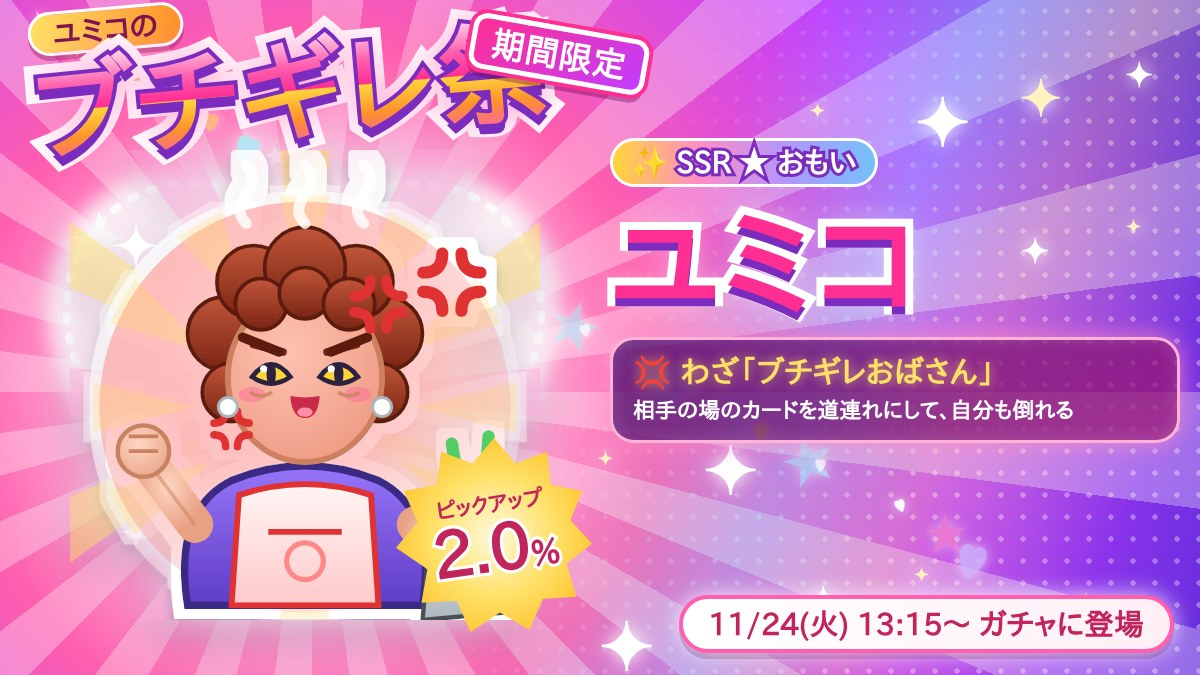
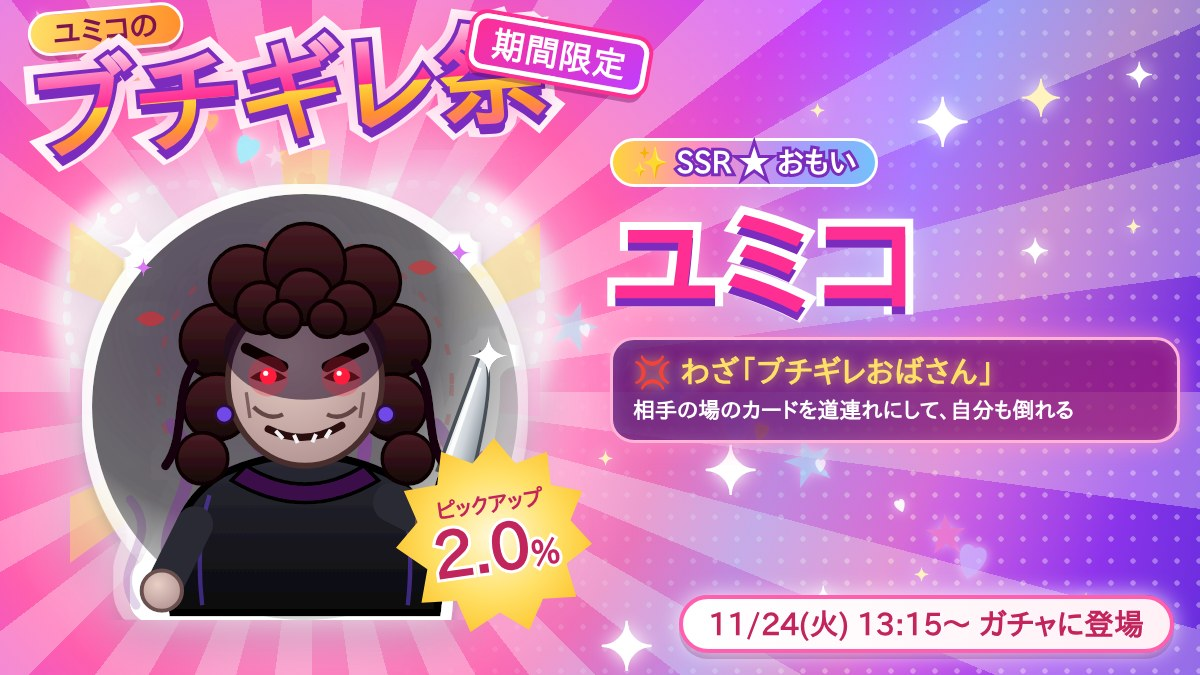
ぶんバト: ユミコの絵を闇堕ちして包丁を持った姿に (ドパバナーも作り直し)
Claude-Session: https://claude.ai/code/session_0131LAB3VBSEDYy6z21kYLHB

Changed region(s): [[0.0617, 0.2178, 0.4625, 0.9333]]

diff --git a/public/cards-art.js b/public/cards-art.js
@@ -365,33 +365,45 @@
         ${twinkle(104, 60, 7, '#fff')}${twinkle(12, 40, 5, '#c3fae8')}${twinkle(36, 112, 4, '#fff')}</g>`;
       },
       // 中大兄皇子 (MR・おもい・大化の改新): 硯 (すずり) の皇子。黒い冠 (纓が立つ)、笏 (しゃく) を持ち、「大化」の巻物。体は石の硯で、墨の池がある
-      // ユミコ (SSR・おもい・ブチギレおばさん): ブチギレると止まらないおばさん。赤茶のパーマ・エプロン・腕まくり・怒りマーク 💢・頭から湯気・買い物袋 (ネギ)
+      // ユミコ (SSR・おもい・ブチギレおばさん): 闇堕ちしたユミコ。黒と紫のオーラ・乱れたパーマ・影の落ちた顔に赤く光る目・黒い服・包丁 (刃が光る)
       yumiko: () => {
-        const skin = rg('sk', [[0, '#ffd6c2'], [1, '#e8a183']], 0.4, 0.35, 0.8), apron = lg('ap', [[0, '#fff5f5'], [1, '#ffc9c9']]);
-        const curl = (x, y, r) => `<circle cx="${x}" cy="${y}" r="${r}" fill="${lg('hr' + x + '_' + y, [[0, '#c0563a'], [1, '#7a2414']])}" stroke="#5c1a0d" stroke-width="1"/>`;
-        const vein = (x, y, k) => `<g transform="translate(${x} ${y}) scale(${k})"><path d="M-6,-2 Q-2,-2 -2,-6 M2,-6 Q2,-2 6,-2 M6,2 Q2,2 2,6 M-2,6 Q-2,2 -6,2" stroke="#e03131" stroke-width="2.6" fill="none" stroke-linecap="round"/></g>`;
-        const steam = (x) => `<path d="M${x},14 C${x - 6},8 ${x + 6},4 ${x},-2" stroke="#fff" stroke-width="3" fill="none" stroke-linecap="round" opacity=".85"/>`;
+        const skin = rg('sk', [[0, '#e9cfc6'], [1, '#a98a8a']], 0.4, 0.35, 0.8);
+        const curl = (x, y, r) => `<circle cx="${x}" cy="${y}" r="${r}" fill="${lg('hr' + x + '_' + y, [[0, '#4a1d24'], [1, '#160509']])}" stroke="#0b0205" stroke-width="1"/>`;
+        const wisp = (x, y, k, o) => `<path d="M${x},${y} C${x - 10 * k},${y - 14 * k} ${x + 10 * k},${y - 22 * k} ${x - 2 * k},${y - 36 * k}" stroke="#9c36b5" stroke-width="${3 * k}" fill="none" stroke-linecap="round" opacity="${o}"/>`;
         return `
-        <circle cx="60" cy="64" r="56" fill="${rg('aura', [[0, '#ffc9c9', 0.95], [0.55, '#ff6b6b', 0.45], [1, '#e03131', 0]])}"/>
-        ${Array.from({ length: 12 }, (_, i) => { const a = i * Math.PI / 6; return `<path d="M${(60 + Math.cos(a) * 30).toFixed(1)},${(64 + Math.sin(a) * 30).toFixed(1)} L${(60 + Math.cos(a + 0.12) * 58).toFixed(1)},${(64 + Math.sin(a + 0.12) * 58).toFixed(1)} L${(60 + Math.cos(a - 0.12) * 58).toFixed(1)},${(64 + Math.sin(a - 0.12) * 58).toFixed(1)}Z" fill="#ffe066" opacity=".35"/>`; }).join('')}
-        <path d="M28,118 Q24,92 40,84 Q60,76 80,84 Q96,92 92,118Z" fill="${lg('sw', [[0, '#9775fa'], [1, '#5f3dc4']])}" stroke="#3b2a85" stroke-width="2"/>
-        <path d="M42,88 Q60,82 78,88 L80,118 L40,118Z" fill="${apron}" stroke="#e03131" stroke-width="1.6"/>
-        <path d="M50,98 H70" stroke="#e03131" stroke-width="1.6"/><circle cx="60" cy="106" r="5" fill="none" stroke="#ff8787" stroke-width="1.4"/>
-        <path d="M30,96 L18,80" stroke="${skin}" stroke-width="10" stroke-linecap="round"/><path d="M30,96 L18,80" stroke="#c9825f" stroke-width="1" fill="none" opacity=".5"/>
-        <circle cx="16" cy="76" r="7" fill="${skin}" stroke="#c9825f" stroke-width="1.2"/><path d="M12,72 L20,72 M12,76 L20,76" stroke="#c9825f" stroke-width="1"/>
-        <path d="M90,96 L100,108" stroke="${skin}" stroke-width="10" stroke-linecap="round"/>
-        <path d="M94,100 L110,98 L114,120 L92,122Z" fill="${lg('bag', [[0, '#e9ecef'], [1, '#adb5bd']])}" stroke="#495057" stroke-width="1.2"/>
-        <path d="M104,98 L100,74 M108,98 L110,72" stroke="#51cf66" stroke-width="3.4" stroke-linecap="round"/><path d="M102,104 L106,98" stroke="#f8f9fa" stroke-width="5"/>
-        ${curl(38, 44, 10)}${curl(82, 44, 10)}${curl(40, 60, 8)}${curl(80, 60, 8)}${curl(46, 30, 10)}${curl(74, 30, 10)}${curl(60, 26, 11)}
-        <ellipse cx="60" cy="56" rx="21" ry="23" fill="${skin}" stroke="#c9825f" stroke-width="1.6"/>
-        <ellipse cx="60" cy="56" rx="21" ry="23" fill="#ff6b6b" opacity=".18"/>
-        ${curl(48, 36, 7)}${curl(60, 33, 7)}${curl(72, 36, 7)}
-        ${face(60, 55, { eyes: 'fierce', mouth: 'open', s: 0.8, brows: true, iris: '#7a2414' })}
-        <path d="M43,45 L53,49 M77,45 L67,49" stroke="#5c1a0d" stroke-width="2.6" stroke-linecap="round"/>
-        <path d="M45,60 Q48,62 51,60 M69,60 Q72,62 75,60" stroke="#c9825f" stroke-width="1" fill="none" opacity=".8"/>
-        ${vein(80, 36, 1.1)}${vein(40, 70, 0.8)}${vein(100, 30, 1.3)}
-        ${steam(44)}${steam(60)}${steam(76)}
-        <circle cx="39" cy="64" r="2.6" fill="#fff" stroke="#adb5bd" stroke-width=".8"/><circle cx="81" cy="64" r="2.6" fill="#fff" stroke="#adb5bd" stroke-width=".8"/>`;
+        <circle cx="60" cy="64" r="58" fill="${rg('aura', [[0, '#3b0d4a', 0.95], [0.55, '#1a0624', 0.85], [1, '#000', 0]])}"/>
+        ${Array.from({ length: 9 }, (_, i) => wisp(14 + i * 12, 118 - (i % 3) * 6, 0.8 + (i % 2) * 0.4, 0.35 + (i % 3) * 0.15)).join('')}
+        <circle cx="60" cy="58" r="40" fill="none" stroke="#e03131" stroke-width="1.2" opacity=".35" stroke-dasharray="3 5"/>
+        <path d="M24,120 Q20,92 38,82 Q60,72 82,82 Q100,92 96,120Z" fill="${lg('cl', [[0, '#2b2b36'], [1, '#08080c']])}" stroke="#000" stroke-width="2"/>
+        <path d="M40,84 Q60,96 80,84 L76,80 Q60,90 44,80Z" fill="#3b0d4a" stroke="#000" stroke-width="1"/>
+        <path d="M34,88 Q30,100 32,118 M86,88 Q90,100 88,118" stroke="#5f3dc4" stroke-width="1.2" fill="none" opacity=".6"/>
+        <path d="M84,90 L96,96" stroke="#2b2b36" stroke-width="11" stroke-linecap="round"/>
+        <g transform="translate(97 96) rotate(-74)">
+          <rect x="-3" y="-4" width="17" height="8" rx="2.5" fill="${lg('hd', [[0, '#3d2b1f'], [1, '#1a110b']])}" stroke="#000" stroke-width="1"/>
+          <circle cx="2" cy="0" r="1.2" fill="#adb5bd"/><circle cx="9" cy="0" r="1.2" fill="#adb5bd"/>
+          <path d="M14,-5 L48,-2.5 Q46,3.6 14,4.6Z" fill="${lg('bl', [[0, '#f8f9fa'], [0.5, '#ced4da'], [1, '#868e96']], 0, 1)}" stroke="#495057" stroke-width="1"/>
+          <path d="M16,-3 L44,-1.6" stroke="#fff" stroke-width="1.2" opacity=".9"/>
+        </g>
+        ${twinkle(110, 50, 6, '#fff')}
+        <circle cx="97" cy="96" r="6.5" fill="${skin}" stroke="#6b4f4f" stroke-width="1.2"/><path d="M93,93 L101,93 M93,96.5 L101,96.5" stroke="#6b4f4f" stroke-width=".9"/>
+        <path d="M30,96 L22,112" stroke="#2b2b36" stroke-width="10" stroke-linecap="round"/><circle cx="21" cy="114" r="5.5" fill="${skin}" stroke="#6b4f4f" stroke-width="1.1"/>
+        ${curl(36, 46, 10)}${curl(84, 46, 10)}${curl(36, 64, 9)}${curl(84, 64, 9)}${curl(44, 30, 10)}${curl(76, 30, 10)}${curl(60, 25, 11)}${curl(32, 78, 7)}${curl(88, 78, 7)}
+        <path d="M30,52 C24,60 28,72 22,80 M90,52 C96,60 92,72 98,80" stroke="#160509" stroke-width="2.4" fill="none" stroke-linecap="round"/>
+        <ellipse cx="60" cy="57" rx="21" ry="23" fill="${skin}" stroke="#4a2d2d" stroke-width="1.6"/>
+        <ellipse cx="60" cy="48" rx="22" ry="14" fill="#1a0624" opacity=".55"/>
+        <path d="M46,64 Q50,68 54,66 M66,66 Q70,68 74,64" stroke="#4a2d2d" stroke-width="1.2" fill="none" opacity=".8"/>
+        ${curl(48, 37, 7)}${curl(60, 34, 7.5)}${curl(72, 37, 7)}${curl(54, 40, 5)}${curl(66, 40, 5)}
+        <path d="M44,48 L54,53 M76,48 L66,53" stroke="#0b0205" stroke-width="3" stroke-linecap="round"/>
+        <path d="M45,56 Q50,52 55,56 Q50,58.5 45,56Z M65,56 Q70,52 75,56 Q70,58.5 65,56Z" fill="#14040a"/>
+        <circle cx="50" cy="55.6" r="2.3" fill="#ff1f3d"/><circle cx="70" cy="55.6" r="2.3" fill="#ff1f3d"/>
+        <circle cx="50" cy="55.6" r="5.5" fill="#ff1f3d" opacity=".28"/><circle cx="70" cy="55.6" r="5.5" fill="#ff1f3d" opacity=".28"/>
+        <circle cx="49.3" cy="54.8" r=".7" fill="#fff"/><circle cx="69.3" cy="54.8" r=".7" fill="#fff"/>
+        <path d="M50,70 Q60,75 70,69" stroke="#2b0a10" stroke-width="2" fill="none" stroke-linecap="round"/>
+        <path d="M52,70.5 L54,72.6 M57,71.6 L58,73.8 M63,71.4 L62,73.6 M67,70.2 L65.6,72.4" stroke="#f1f3f5" stroke-width="1.1"/>
+        <path d="M44,60 L45,67 M76,60 L75,67" stroke="#4a2d2d" stroke-width=".9" opacity=".6"/>
+        <circle cx="38" cy="66" r="2.4" fill="#7048e8" stroke="#2b0a3b" stroke-width=".8"/><circle cx="82" cy="66" r="2.4" fill="#7048e8" stroke="#2b0a3b" stroke-width=".8"/>
+        <path d="M88,26 Q92,22 96,26 Q92,30 88,26Z M14,40 Q18,36 22,40 Q18,44 14,40Z" fill="#e03131" opacity=".7"/>
+        ${twinkle(102, 22, 3.4, '#da77f2')}${twinkle(16, 26, 2.8, '#da77f2')}`;
       },
       // 魔法使いすえつぐ (SSR・つつむ・DNAを取り出す): 自分を魔法少女だと思っている人型のおばさん。
       // パーマの髪にティアラ、ピンクのフリフリ衣装、ハートのステッキ。片手に抜き取った DNA (二重らせん)

diff --git a/public/index.html b/public/index.html
@@ -227,7 +227,7 @@
   </div>
 </div>
 
-<script src="/cards-art.js?v=21"></script>
+<script src="/cards-art.js?v=22"></script>
 <script src="/app.js?v=125"></script>
 </body>
 </html>
